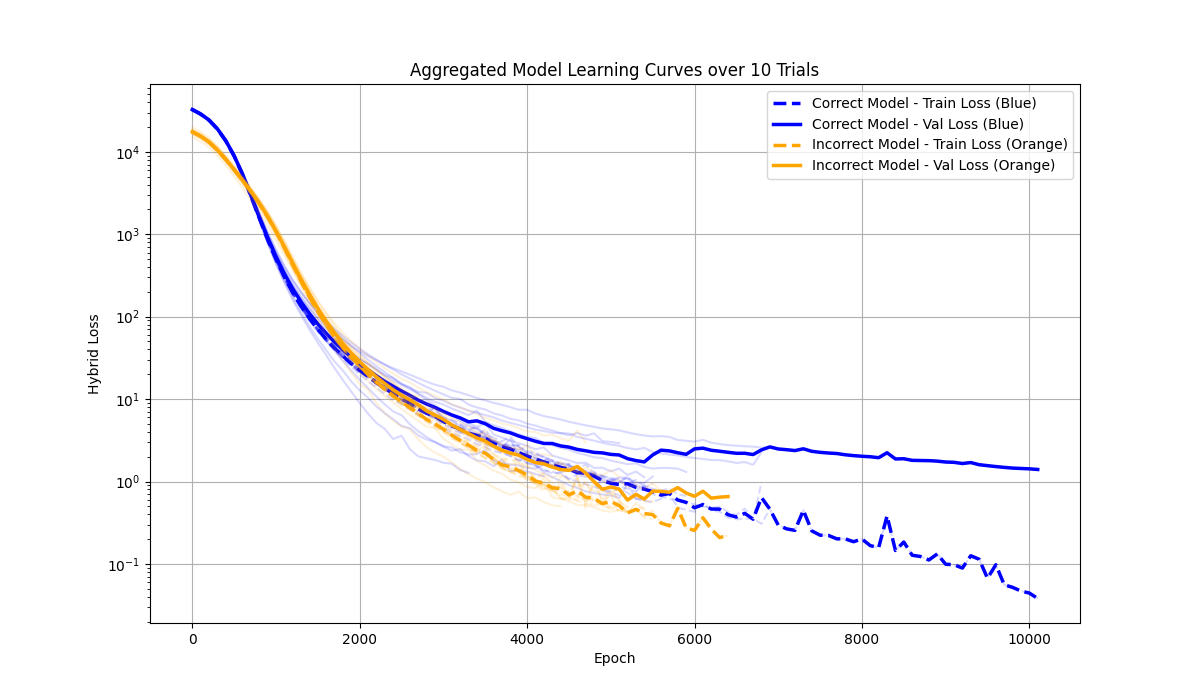
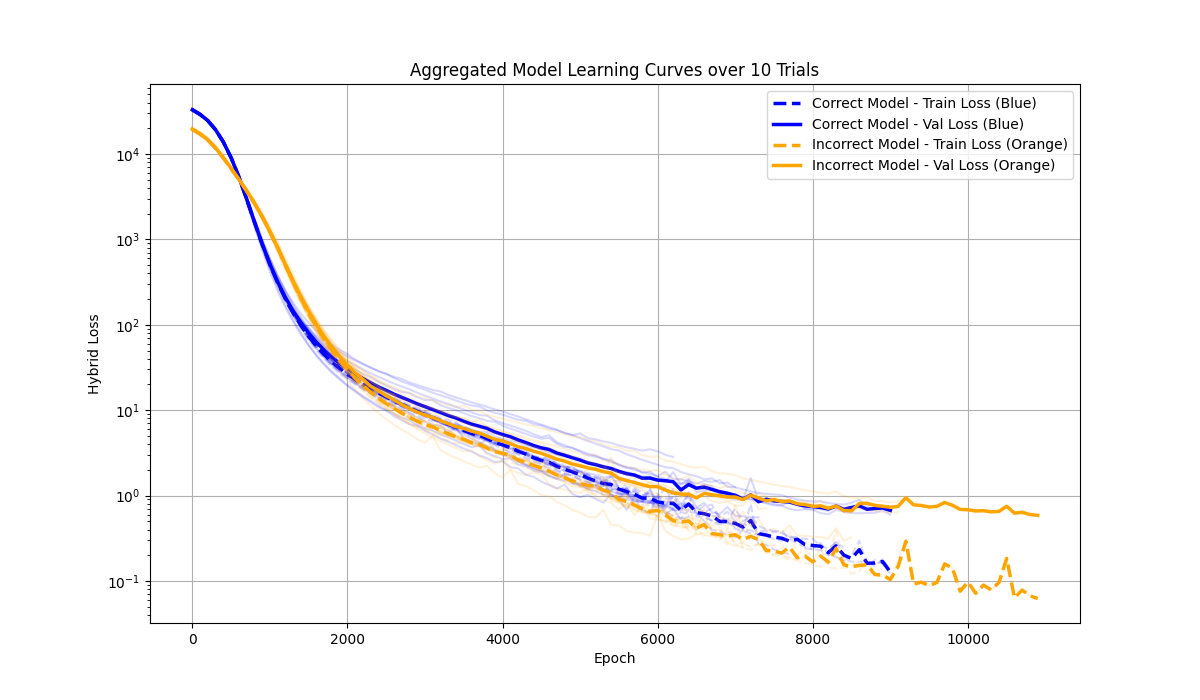
more complpex

diff --git a/Demos/Demo3/data3.py b/Demos/Demo3/data3.py
@@ -6,8 +6,8 @@ from typing import List, Tuple, Any, Optional, NewType, TypedDict
 
 # --- Configuration ---
 # AI: Increased sample count and context window to create a more complex task
-NUM_SAMPLES = 500
-CONTEXT_WINDOW = 10
+NUM_SAMPLES = 1000
+CONTEXT_WINDOW = 15
 PRICE_SERIES_LENGTH = NUM_SAMPLES + CONTEXT_WINDOW + 2
 
 # Event IDs
